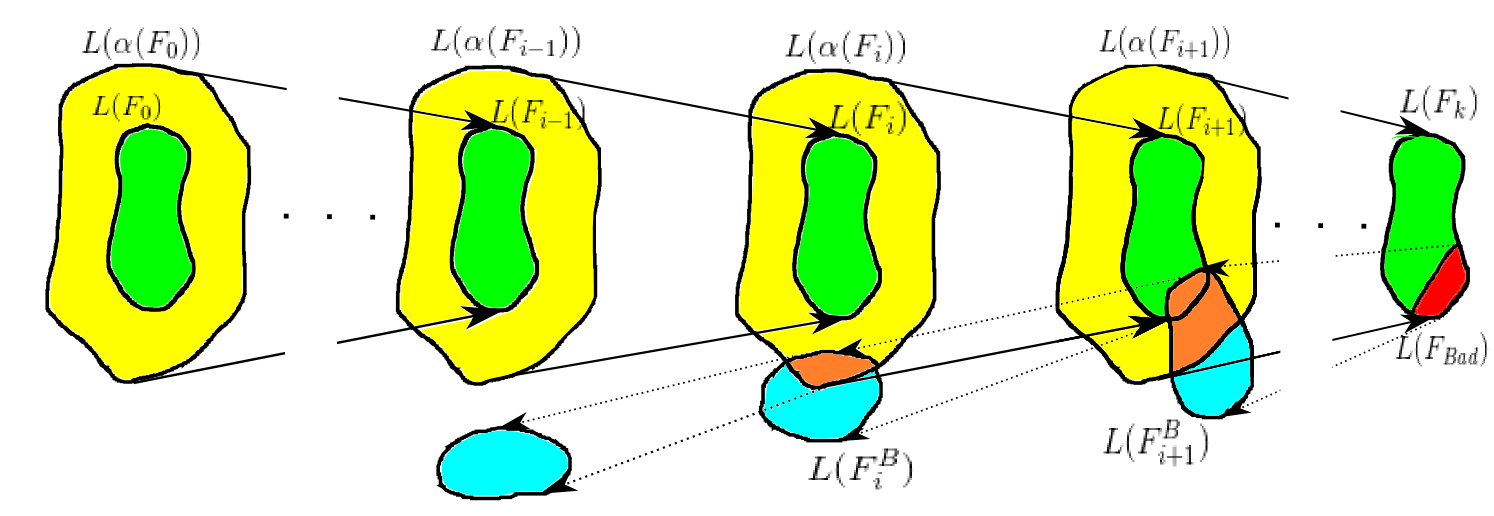
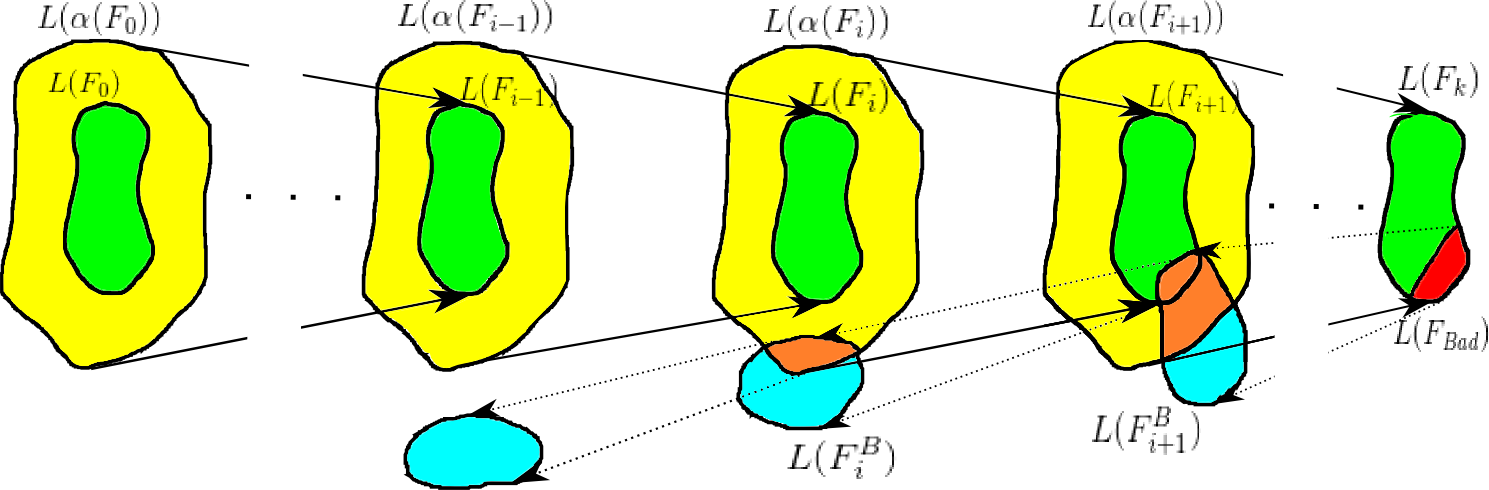
artmc update

diff --git a/obsah.tex b/obsah.tex
@@ -1816,7 +1816,7 @@ Section \ref{sec:impl} covers the implementation.
 
 \begin{figure}[t]
 	\centering
-	\includegraphics[scale=0.3]{fig/artmc.png}
+	\includegraphics[scale=0.35]{fig/artmc.png}
 	\caption{
 		Figure is taken from \cite{artmc}.
 		Figures illustrates principle of forward and backward run and
